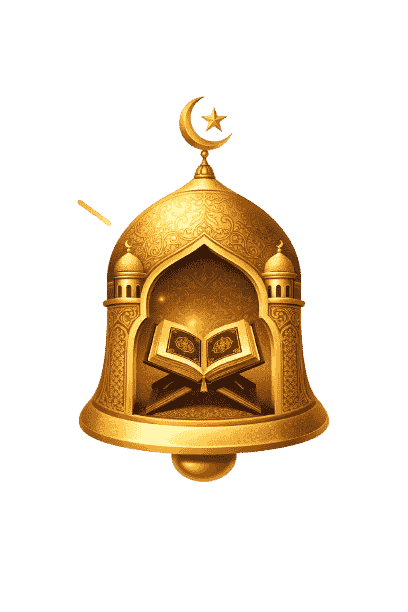
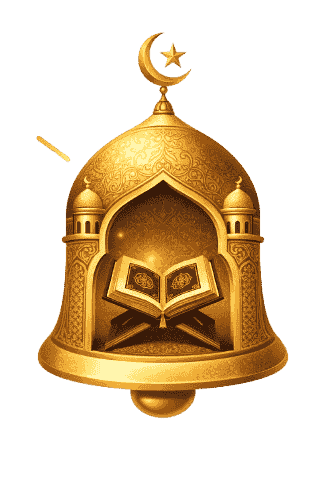
some change in home screen

diff --git a/lib/features/home/widgets/home_app_bar.dart b/lib/features/home/widgets/home_app_bar.dart
@@ -1,3 +1,5 @@
+import 'dart:ui';
+
 import 'package:flutter/material.dart';
 import 'package:flutter_screenutil/flutter_screenutil.dart';
 import 'package:intl/intl.dart' as intl;
@@ -151,6 +153,7 @@ class HomeAppBar extends StatelessWidget {
                   AppAssets.hero,
                   fit: BoxFit.cover,
                   width: double.infinity,
+                  height: double.infinity,
                 ),
               ),
             ),
@@ -245,14 +248,23 @@ class HomeAppBar extends StatelessWidget {
       actions: [
         Padding(
           padding: EdgeInsets.only(left: context.insets.sm),
-          child: Container(
-            decoration: BoxDecoration(
-              color: Colors.white.withValues(alpha: 0.2),
-              shape: BoxShape.circle,
-            ),
-            child: IconButton(
-              onPressed: () => context.router.push(const SettingsRoute()),
-              icon: Image.asset(AppAssets.notification, width: 40.w),
+          child: ClipOval(
+            child: BackdropFilter(
+              filter: ImageFilter.blur(sigmaX: 5, sigmaY: 5),
+              child: Container(
+                decoration: BoxDecoration(
+                  color: context.colors.background.withValues(alpha: 0.2),
+                  shape: BoxShape.circle,
+                  border: Border.all(
+                    color: context.colors.secondary,
+                    width: .2,
+                  ),
+                ),
+                child: IconButton(
+                  onPressed: () => context.router.push(const SettingsRoute()),
+                  icon: Image.asset(AppAssets.notification, width: 40.w),
+                ),
+              ),
             ),
           ),
         ),

diff --git a/lib/features/home/widgets/home_features_grid.dart b/lib/features/home/widgets/home_features_grid.dart
@@ -19,7 +19,7 @@ class HomeFeaturesGrid extends StatelessWidget {
       sliver: SliverGrid(
         gridDelegate: SliverGridDelegateWithFixedCrossAxisCount(
           crossAxisCount: 4,
-          childAspectRatio: 0.85,
+          childAspectRatio: 0.75,
           crossAxisSpacing: context.insets.sm * 0.8,
           mainAxisSpacing: context.insets.sm * 0.8,
         ),
@@ -70,8 +70,8 @@ class HomeFeaturesGrid extends StatelessWidget {
           ),
           _FeatureItem(
             title: "المسبحة الالكترونية",
-            icon: Icons.blur_circular,
-            color: const Color(0xff607d8b),
+            icon: Icons.touch_app,
+            color: const Color(0xff5d2c01),
             route: const MisbahaRoute(),
           ),
           _FeatureItem(
